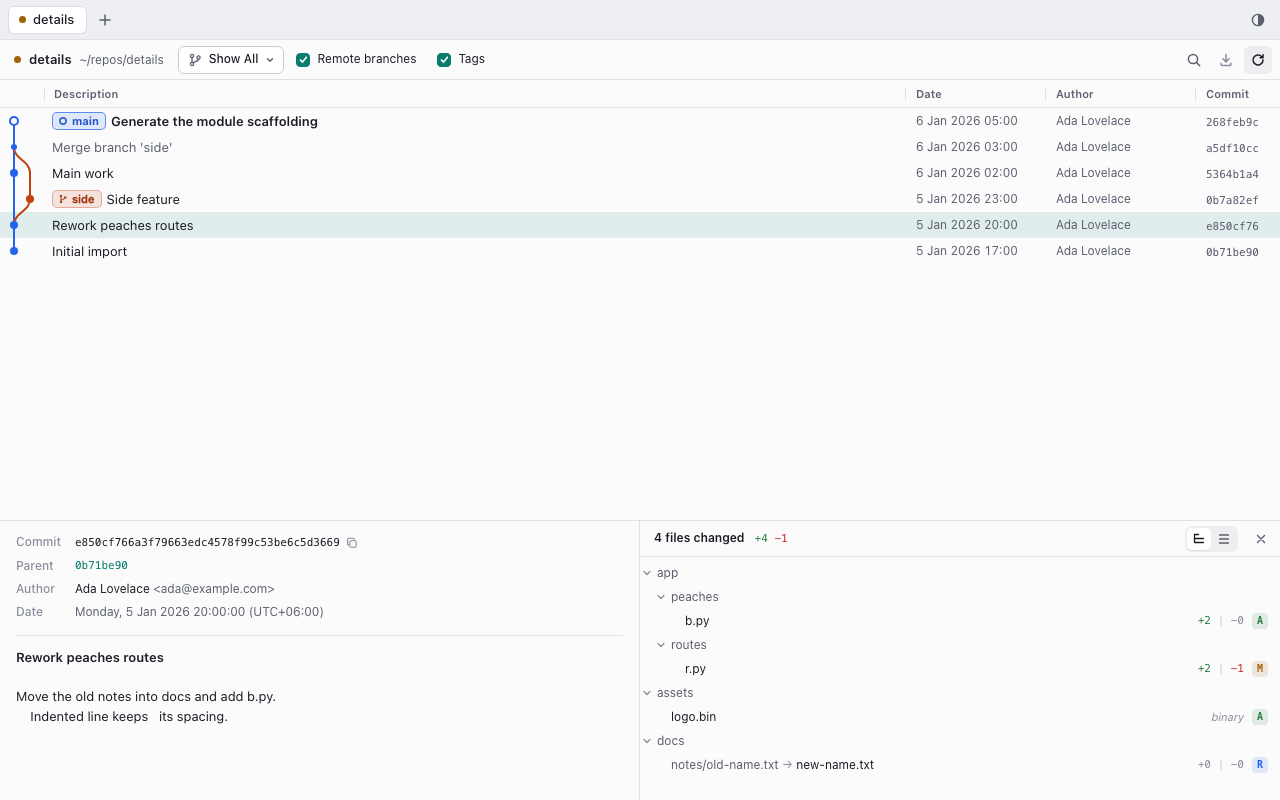
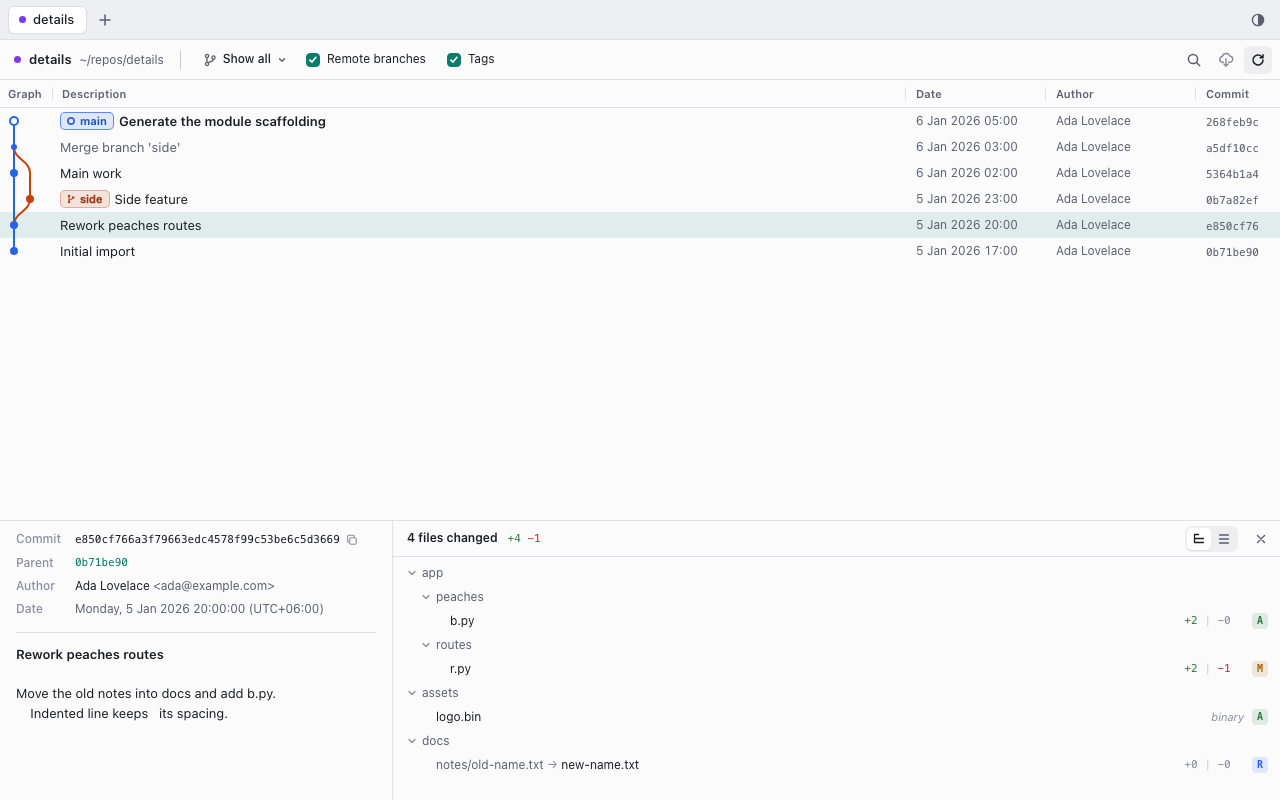
style(ui): narrower count columns; details screenshots after fix round 1

diff --git a/src/lib/components/ChangedFiles.svelte b/src/lib/components/ChangedFiles.svelte
@@ -360,11 +360,11 @@
     color: var(--text-faint);
   }
 
-  /* Fixed widths, so the bars line up down the list (up to four digits each). */
+  /* Fixed widths, so the bars line up down the list (up to three digits each). */
   .add,
   .del {
     display: inline-block;
-    min-width: 5ch;
+    min-width: 4ch;
   }
 
   .add {
